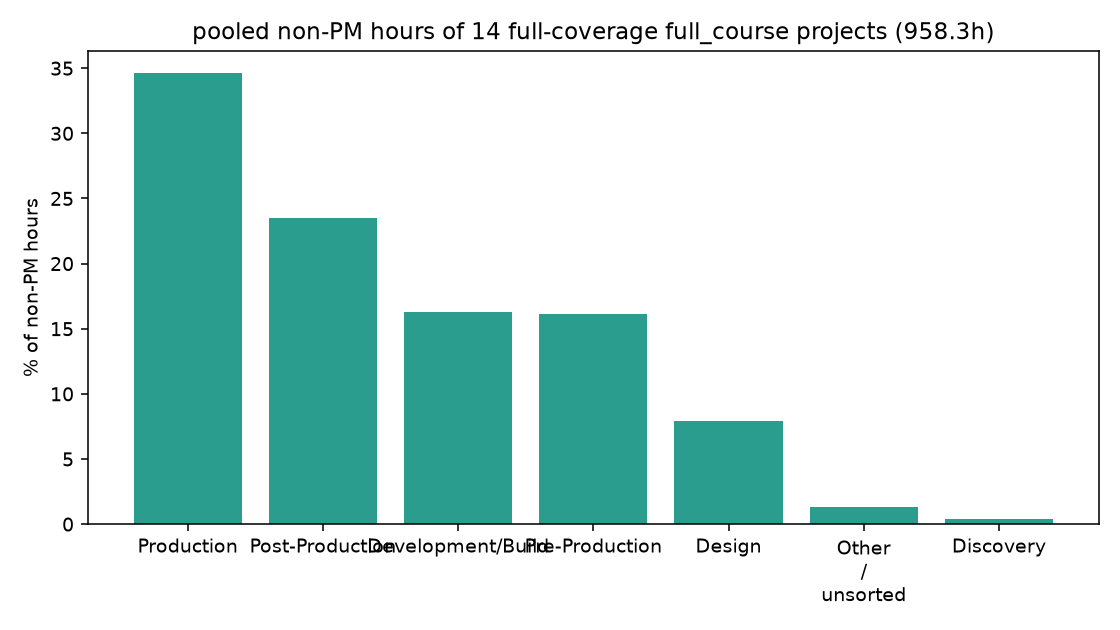
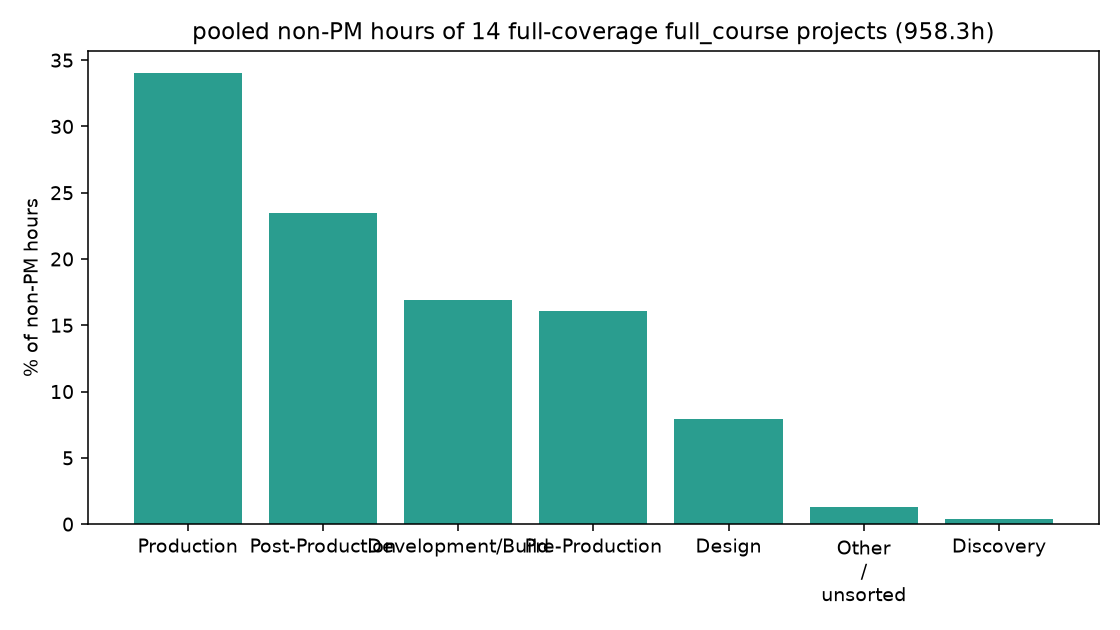
nightly refresh 2026-07-28

diff --git a/faculty_guide/canvas_upload/ODL_Faculty_Onboarding_Guide.html b/faculty_guide/canvas_upload/ODL_Faculty_Onboarding_Guide.html
@@ -335,7 +335,7 @@
   // === BEGIN CALIBRATION (machine-generated — do not edit by hand) ==========
   var CALIBRATION =
   {
-    "provenance": "data_all/time_entries.csv (3,336 entries, 2844.8h, 2024-07-10..2026-07-24, ODL staff time) | 25 full-coverage course-dev projects >=10h (derived/ground_truth.csv); production rates from the 21 of them with >=10h non-PM logging",
+    "provenance": "data_all/time_entries.csv (3,333 entries, 2844.8h, 2024-07-10..2026-07-27, ODL staff time) | 25 full-coverage course-dev projects >=10h (derived/ground_truth.csv); production rates from the 21 of them with >=10h non-PM logging",
     "generated_from": "data_all/derived/calibration.json -- run inject_calibration.py to refresh",
     "archetypeEffort": {
       "course_redesign": {
@@ -414,9 +414,9 @@
     },
     "mediaSplitBasis": "pooled hours on per-video sections with full-coverage logging: 1 project(s) (Program for Inclusive Education (PIE) Video #2), 15.5h total",
     "coursePhaseMixPct": {
-      "Production": 34.6,
+      "Production": 34.0,
       "Post-Production": 23.5,
-      "Development/Build": 16.3,
+      "Development/Build": 16.9,
       "Pre-Production": 16.1,
       "Design": 7.9,
       "Other / unsorted": 1.3,
@@ -443,11 +443,11 @@
       "full_course": {
         "n": 23,
         "min": 4.8,
-        "p25": 17.7,
-        "p50": 31.4,
-        "p75": 41.9,
-        "p80": 46.6,
-        "max": 63.6
+        "p25": 18.3,
+        "p50": 33.2,
+        "p75": 45.9,
+        "p80": 49.9,
+        "max": 91.9
       },
       "podcast": {
         "n": 2,
@@ -790,7 +790,7 @@
       },
       "tracker_status_counts": {
         "Complete": 74,
-        "In Progress": 28,
+        "In Progress": 29,
         "No Documentation": 15,
         "On Hold": 4
       },

diff --git a/faculty_guide/estimator.js b/faculty_guide/estimator.js
@@ -38,7 +38,7 @@
   // === BEGIN CALIBRATION (machine-generated — do not edit by hand) ==========
   var CALIBRATION =
   {
-    "provenance": "data_all/time_entries.csv (3,336 entries, 2844.8h, 2024-07-10..2026-07-24, ODL staff time) | 25 full-coverage course-dev projects >=10h (derived/ground_truth.csv); production rates from the 21 of them with >=10h non-PM logging",
+    "provenance": "data_all/time_entries.csv (3,333 entries, 2844.8h, 2024-07-10..2026-07-27, ODL staff time) | 25 full-coverage course-dev projects >=10h (derived/ground_truth.csv); production rates from the 21 of them with >=10h non-PM logging",
     "generated_from": "data_all/derived/calibration.json -- run inject_calibration.py to refresh",
     "archetypeEffort": {
       "course_redesign": {
@@ -117,9 +117,9 @@
     },
     "mediaSplitBasis": "pooled hours on per-video sections with full-coverage logging: 1 project(s) (Program for Inclusive Education (PIE) Video #2), 15.5h total",
     "coursePhaseMixPct": {
-      "Production": 34.6,
+      "Production": 34.0,
       "Post-Production": 23.5,
-      "Development/Build": 16.3,
+      "Development/Build": 16.9,
       "Pre-Production": 16.1,
       "Design": 7.9,
       "Other / unsorted": 1.3,
@@ -146,11 +146,11 @@
       "full_course": {
         "n": 23,
         "min": 4.8,
-        "p25": 17.7,
-        "p50": 31.4,
-        "p75": 41.9,
-        "p80": 46.6,
-        "max": 63.6
+        "p25": 18.3,
+        "p50": 33.2,
+        "p75": 45.9,
+        "p80": 49.9,
+        "max": 91.9
       },
       "podcast": {
         "n": 2,
@@ -493,7 +493,7 @@
       },
       "tracker_status_counts": {
         "Complete": 74,
-        "In Progress": 28,
+        "In Progress": 29,
         "No Documentation": 15,
         "On Hold": 4
       },
